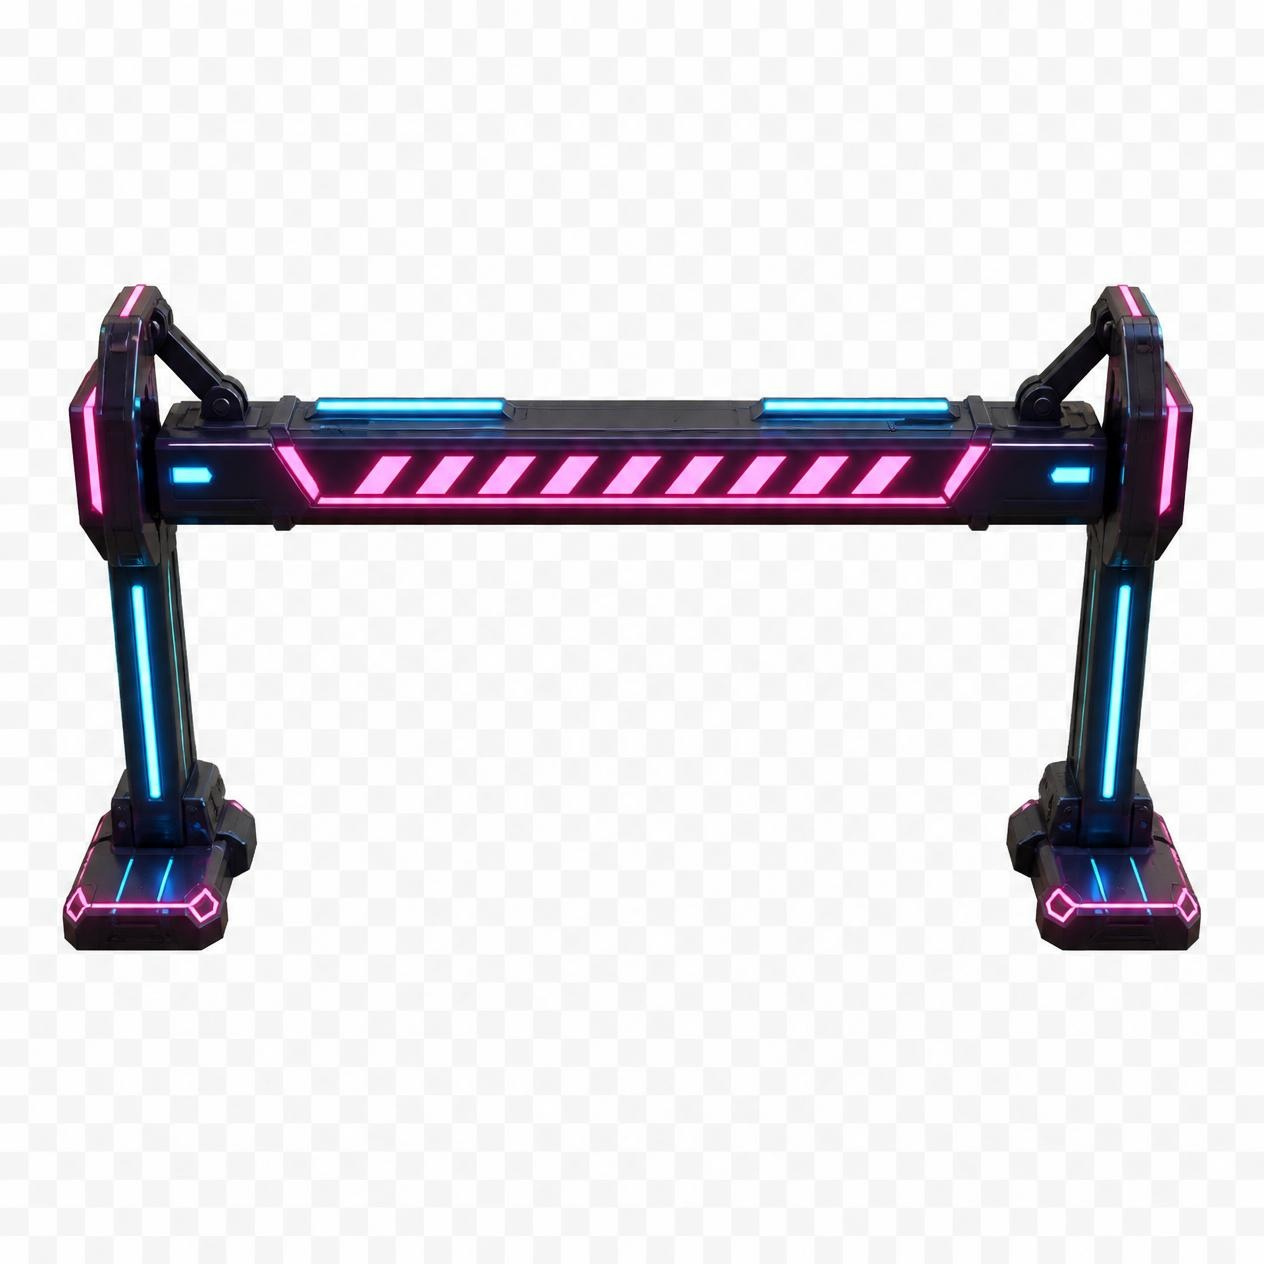
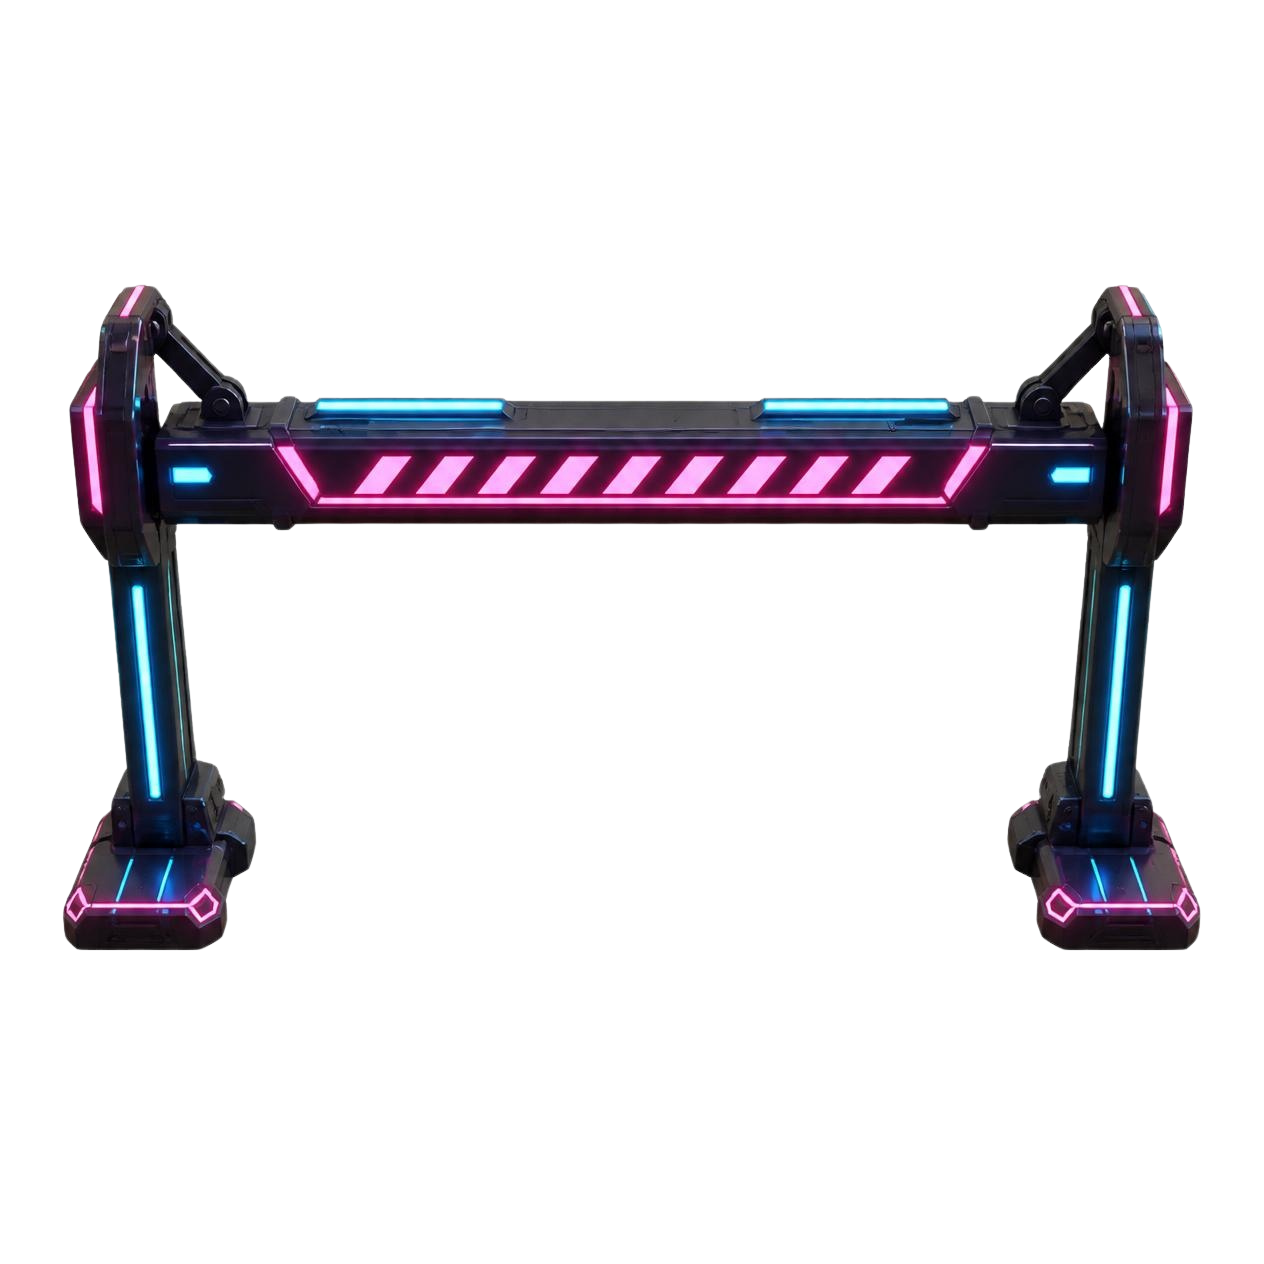
size and obstacle background

Changed region(s): [[0.1234, 0.3085, 0.1543, 0.3394]]

diff --git a/zen-game.html b/zen-game.html
@@ -407,7 +407,10 @@ function updateObjects(delta){
     s.x=objectTargetX(o,p);
     s.y=y;
     s.setAlpha(clamp(p*3.4,.2,1));
-    s.setScale(perspective);
+
+    // Size from our intended in-game dimensions, NOT the PNG's native pixel size.
+    // Using setScale() here made large Canva source images explode to huge sizes.
+    s.setDisplaySize(o.baseW * perspective, o.baseH * perspective);
 
     if(!o.hit && p>.77 && p<.94 && o.lane===STATE.lane){
       let success=false;
